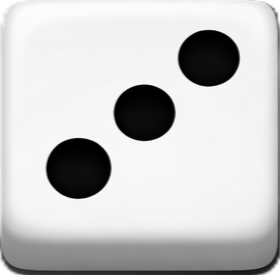
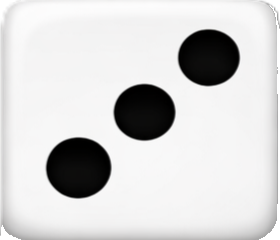
Update dice images and modify dice creation logic in CombatHandler

Changed region(s): [[0.0, 0.0292, 1.0, 1.0], [0.6286, 0.0875, 0.8571, 0.3792]]

diff --git a/src/game/scenes/Game.ts b/src/game/scenes/Game.ts
@@ -2,21 +2,18 @@ import { EventBus } from '../EventBus';
 import { Scene } from 'phaser';
 import { CombatHandler } from '../classes/CombatHandler';
 
-export class Game extends Scene
-{
+export class Game extends Scene {
     camera: Phaser.Cameras.Scene2D.Camera;
     background: Phaser.GameObjects.Image;
     gameText: Phaser.GameObjects.Text;
     combatHandler: CombatHandler;
     diceText: Phaser.GameObjects.Text;
 
-    constructor ()
-    {
+    constructor() {
         super('Game');
     }
 
-    create ()
-    {
+    create() {
         this.camera = this.cameras.main;
 
         this.background = this.add.image(768, 512, 'mm_background');
@@ -30,21 +27,18 @@ export class Game extends Scene
         EventBus.emit('current-scene-ready', this);
     }
 
-    changeScene ()
-    {
+    changeScene() {
         this.scene.start('GameOver');
     }
 
-    createTexts ()
-    {
+    createTexts() {
         this.diceText = this.add.text(768, 512, '', {
             fontFamily: 'actionman', fontSize: 64, color: '#ff9000',
             stroke: '#893700', strokeThickness: 8,
             align: 'center'
         }).setOrigin(0.5).setDepth(100);
     }
-    createButtons ()
-    {
+    createButtons() {
         const button = this.add.image(1100, 900, 'dice');
 
         // Interaktiv machen
@@ -52,14 +46,25 @@ export class Game extends Scene
 
         // Klick-Event
         button.on('pointerdown', () => {
-            
-            this.combatHandler.throwDice([
+
+            const result = this.combatHandler.throwDice([
                 this.combatHandler.playersDice[0],
                 this.combatHandler.playersDice[0],
                 this.combatHandler.playersDice[0],
                 this.combatHandler.playersDice[0],
                 this.combatHandler.playersDice[0]
             ]);
+            const total = result.reduce((s, v) => s + v, 0);
+
+            this.diceText.setText(total.toString());
+
+            this.diceText.setScale(0);
+            this.tweens.add({
+                targets: this.diceText,
+                scale: 1,
+                duration: 200,
+                ease: 'Back.Out'
+            });
         });
 
         // Hover-Effekt

diff --git a/src/game/classes/CombatHandler.ts b/src/game/classes/CombatHandler.ts
@@ -111,7 +111,8 @@ export class CombatHandler {
 
         if (Array.isArray(diceOrCount)) {
             dicePool = diceOrCount;
-        } else {
+        }//hier schnickschnack...noch unnötig 
+        else {
             const template = this.playersDice[0];
             if (!template) return [];
             dicePool = Array.from({ length: diceOrCount }, () => template);
